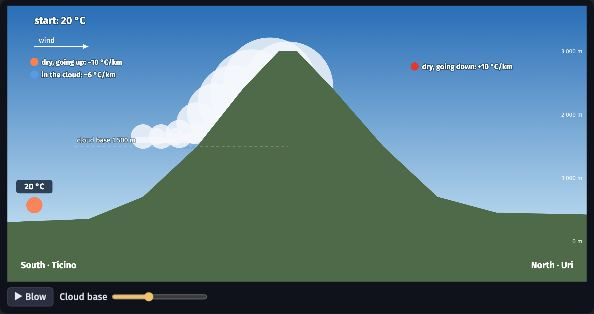
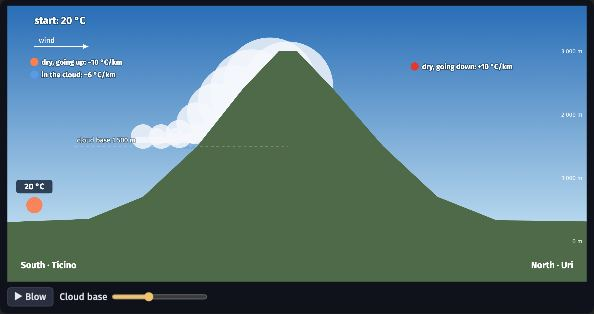
GeoResources f81f9cf (fixes to dtm-steps, foehn, alliances, rank-size, border-walls; full catalog)
- page texts follow: dtm-steps (▶ starts again from step 1), alliances (Armenia hatched from 2024),
  border-walls (walls between today's states only); new thumbnails

Changed region(s): [[0.7879, 0.6592, 1.0, 0.7166], [0.7576, 0.6306, 0.7879, 0.6592]]

diff --git a/_extensions/geores/dist/geores.js b/_extensions/geores/dist/geores.js
@@ -7629,13 +7629,13 @@
       bwdTitle: (a, b, y) => `Border walls: ${a} in 1989, ${b} in ${y}`, bwdMap: y => `The walls standing in ${y}`, bwdChart: "walls standing each year",
       bwdMotives: { territory: "territory (dispute, demarcation)", security: "security (militants, terrorism)", migration: "migration and smuggling", other: "other" },
       bwdUnmapped: n => `${n} walls without a known route are counted, not drawn`,
-      bwdSource: "Kenwick, Pauselli & Simmons (2026), CC0; walls begun after 2020 added for this course",
+      bwdSource: "Kenwick, Pauselli & Simmons (2026), CC0: walls between today's states (no Berlin Wall or Iron Curtain); walls begun after 2020 added for this course",
     },
     fr: {
       bwdTitle: (a, b, y) => `Murs frontaliers : ${a} en 1989, ${b} en ${y}`, bwdMap: y => `Les murs debout en ${y}`, bwdChart: "murs debout chaque année",
       bwdMotives: { territory: "territoire (conflit, démarcation)", security: "sécurité (militants, terrorisme)", migration: "migrations et contrebande", other: "autre" },
       bwdUnmapped: n => `${n} murs sans tracé connu sont comptés, pas dessinés`,
-      bwdSource: "Kenwick, Pauselli & Simmons (2026), CC0 ; murs commencés après 2020 ajoutés pour ce cours",
+      bwdSource: "Kenwick, Pauselli & Simmons (2026), CC0 : murs entre États actuels (ni mur de Berlin ni rideau de fer) ; murs commencés après 2020 ajoutés pour ce cours",
     },
   });
 
@@ -15003,6 +15003,9 @@
 // Tissot's indicatrices (circles of the same size on the globe) to see what each projection keeps:
 // shapes (conformal), areas (equal-area) or a bit of both (compromise). The central meridian can
 // be moved. Follows the page's light/dark theme.
+//   <div class="geores" data-sim="projection-explorer" data-set="rectangular" data-projection="mercator"></div>
+//   data-set: rectangular (the first four) or nonrectangular (the four others), default all eight; data-projection:
+//   the projection shown first (platecarree, mercator, gallpeters, hobodyer, goode, robinson, winkel, equalearth)
 (function (G) {
   const R_ = G.GeoRes, pg = R_.page, { svgDoc } = R_.lib;
 
@@ -16860,6 +16863,8 @@
 // emits waves; the observer it moves away from receives longer waves, the other one shorter.
 // Sound: a siren (lower / higher pitch). Light: a galaxy, with its spectrum and the hydrogen
 // lines shifted towards the red. Speeds are fractions of the speed of the waves (not to scale).
+//   <div class="geores" data-sim="redshift" data-mode="sound"></div>
+//   data-mode: light (default: a galaxy and its spectrum) or sound (a siren)
 (function (G) {
   const R_ = G.GeoRes, pg = R_.page;
 
@@ -17287,13 +17292,13 @@
   R_.addStrings({
     en: {
       dtmIntro: "The <b>birth rate</b> (CBR) and the <b>death rate</b> (CDR): the area between them is the <b>natural increase</b> (RNI), the blue line the <b>population</b>.",
-      dtmStageText: "<b>Stage {i}</b>: birth rate {cbr}, death rate {cdr}, population: <b>{pop}</b>.",
-      dtmStep: "Step {i} of {n}", dtmAll: "Whole model", prev: "Previous step", next: "Next step",
+      dtmStageText: "<b>Stage {i}</b>: birth rate {cbr}, death rate {cdr}, natural increase: <b>{pop}</b>.",
+      dtmStep: "Step {i} of {n}", dtmAll: "Whole model", prev: "Previous step", next: "Next step", dtmRestart: "From the first step",
     },
     fr: {
       dtmIntro: "Le <b>taux de natalité</b> et le <b>taux de mortalité</b> : la surface entre les deux est l'<b>accroissement naturel</b>, la ligne bleue la <b>population</b>.",
-      dtmStageText: "<b>Phase {i}</b> : natalité {cbr}, mortalité {cdr}, population : <b>{pop}</b>.",
-      dtmStep: "Étape {i} sur {n}", dtmAll: "Modèle complet", prev: "Étape précédente", next: "Étape suivante",
+      dtmStageText: "<b>Phase {i}</b> : natalité {cbr}, mortalité {cdr}, accroissement naturel : <b>{pop}</b>.",
+      dtmStep: "Étape {i} sur {n}", dtmAll: "Modèle complet", prev: "Étape précédente", next: "Étape suivante", dtmRestart: "Depuis la première étape",
     },
   });
 
@@ -17367,11 +17372,15 @@
       caption.innerHTML = k === 1 || !one ? tr("dtmIntro") : tr("dtmStageText").replace("{i}", k - 1)
         .replace("{cbr}", stages[k - 2][0]).replace("{cdr}", stages[k - 2][1]).replace("{pop}", stages[k - 2][2]);
       panel.querySelector(".prev").disabled = k <= 1;
-      panel.querySelector(".next").disabled = k >= n;
+      // on the whole model, ▶ starts again from the first step
+      panel.querySelector(".next").setAttribute("aria-label", tr(k >= n ? "dtmRestart" : "next"));
     }
 
     panel.querySelector(".prev").addEventListener("click", () => { k = Math.max(1, k - 1); show(true); });
-    panel.querySelector(".next").addEventListener("click", () => { k = Math.min(n, k + 1); show(true, k - 2); });
+    panel.querySelector(".next").addEventListener("click", () => {
+      if (k >= n) { k = 1; show(true); return; }
+      k += 1; show(true, k - 2);
+    });
     panel.querySelector(".all").addEventListener("click", () => { k = n; show(true); });
     draw();
     pg.onThemeChange(draw);
@@ -18424,6 +18433,8 @@
 // map: the coasts reconstructed every 10 million years (Müller et al. 2022, GPlates; dist/paleo.js), with
 // a time slider and a play button, the geological period and what happened then. Between two maps, the
 // sim fades from one to the next.
+//   <div class="geores" data-sim="continents-drift" data-age="200"></div>
+//   data-age: the map shown first, in millions of years ago (0 to 250, every 10; default 250)
 (function (G) {
   const R_ = G.GeoRes, { clamp } = R_.lib;
 
@@ -20508,6 +20519,9 @@
 // boundary (and how fast the plates move there), the earthquake or the volcano under the pointer.
 // layers="bounds,quakes,volcanoes,age": the layers shown at first; lon0: the central meridian (10 or 150).
 // Data: dist/tectonics.js (tools/geology-data.R).
+//   <div class="geores" data-sim="plate-map" data-layers="bounds,quakes" data-lon0="150"></div>
+//   data-layers: the layers shown at first, comma-separated among bounds (default), quakes, volcanoes, age;
+//   data-lon0: the central meridian, 10 (default) or 150
 (function (G) {
   const R_ = G.GeoRes, { clamp } = R_.lib;
 
@@ -21461,6 +21475,8 @@
 // seen from above) and Rayleigh (rolling, like ocean waves). All waves leave the earthquake together:
 // the P wave arrives first. waves="PS" shows the body waves only, with a switch to fill the block with
 // water: the P wave crosses it (slower), the S wave does not exist in a liquid.
+//   <div class="geores" data-sim="seismic-waves" data-waves="PS"></div>
+//   data-waves: the waves shown, among P, S, L (Love) and R (Rayleigh), default PSLR; PS adds the water switch
 (function (G) {
   const R_ = G.GeoRes, { clamp } = R_.lib;
 
@@ -22034,7 +22050,10 @@
       ctx.fillStyle = SEA; ctx.fillRect(MAP.x, MAP.y, MAP.w, MAP.h);
       countries.forEach(({ c, path }) => {
         const ks = BLOCS.filter(k => on.has(k) && member(k, c.id, year));
+        // Armenia froze its CSTO membership in 2024: hatched, as on the static map
+        const frozen = c.id === "ARM" && year >= 2024 && ks.length === 1 && ks[0] === "csto";
         if (!ks.length) ctx.fillStyle = LAND;
+        else if (frozen) ctx.fillStyle = patterns.armFrozen || (patterns.armFrozen = stripes(LAND, COL.csto));
         else if (ks.length === 1) ctx.fillStyle = COL[ks[0]];
         else { const key = ks.slice(0, 2).join(); ctx.fillStyle = patterns[key] || (patterns[key] = stripes(COL[ks[0]], COL[ks[1]])); }
         ctx.fill(path, "evenodd");
@@ -22236,7 +22255,7 @@
       bwMotive: m => `motive: ${m}`, bwAdded: "added for this course (after the dataset), approximate route",
       bwHint: "Move over a wall.", bwUnmapped: n => `${n} walls without a known route are counted, not drawn`,
       bwEvents: { 1989: "fall of the Berlin Wall", 2001: "11 September", 2015: "refugees in Europe", 2022: "war in Ukraine" },
-      bwSource: "Kenwick, Pauselli & Simmons (2026), CC0; walls begun after 2020 added",
+      bwSource: "Kenwick, Pauselli & Simmons (2026), CC0: walls between today's states (no Berlin Wall or Iron Curtain); walls begun after 2020 added",
     },
     fr: {
       bwTitle: "Les murs aux frontières du monde", bwStanding: n => `${n} murs debout`, bwPlay: "Lecture", bwPause: "Pause", bwYear: "Année", bwRegion: "Région",
@@ -22246,7 +22265,7 @@
       bwMotive: m => `motif : ${m}`, bwAdded: "ajouté pour ce cours (après les données), tracé approximatif",
       bwHint: "Passez sur un mur.", bwUnmapped: n => `${n} murs sans tracé connu sont comptés, pas dessinés`,
       bwEvents: { 1989: "chute du mur de Berlin", 2001: "11 septembre", 2015: "réfugiés en Europe", 2022: "guerre en Ukraine" },
-      bwSource: "Kenwick, Pauselli & Simmons (2026), CC0 ; murs commencés après 2020 ajoutés",
+      bwSource: "Kenwick, Pauselli & Simmons (2026), CC0 : murs entre États actuels (ni mur de Berlin ni rideau de fer) ; murs commencés après 2020 ajoutés",
     },
   });
 
@@ -24404,9 +24423,12 @@
     const GY = 520, K = 0.14, Y = h => GY - h * K;
     const START = 400, CREST = 3000, T0 = 20;
     // terrain: [x, altitude]
-    const TER = [[0, 300], [180, 350], [300, 700], [420, 1500], [520, 2400], [600, 3000], [640, 3000], [720, 2400], [830, 1500], [950, 700], [1080, 450], [1280, 420]];
-    const alt = x => { for (let i = 1; i < TER.length; i++) if (x <= TER[i][0]) { const [x0, a0] = TER[i - 1], [x1, a1] = TER[i]; return a0 + (a1 - a0) * (x - x0) / (x1 - x0); } return 420; };
+    // (the valley on the north side as low as the start, so that the air arrives at the altitude it left: without a
+    // cloud, it comes back to the temperature it started with)
+    const TER = [[0, 300], [180, 350], [300, 700], [420, 1500], [520, 2400], [600, 3000], [640, 3000], [720, 2400], [830, 1500], [950, 700], [1080, 330], [1280, 310]];
+    const alt = x => { for (let i = 1; i < TER.length; i++) if (x <= TER[i][0]) { const [x0, a0] = TER[i - 1], [x1, a1] = TER[i]; return a0 + (a1 - a0) * (x - x0) / (x1 - x0); } return 310; };
     const pathAlt = x => Math.max(alt(x) + 150, x < 160 ? START : 0);
+    const TOP = CREST + 150;   // the highest point of the way: a cloud forms if its base is lower
     let lcl = 1500, x = 60, playing = false;
     const sl = panel.querySelector("input");
     sl.addEventListener("input", () => { lcl = +sl.value; x = 60; playing = false; });
@@ -24427,8 +24449,8 @@
       ctx.clearRect(0, 0, W, H);
       X.sky(ctx, 0, 0, W, GY + 40, "#2a6fb8", "#cfeaf8");
       // cloud and rain on the windward side, above the cloud base
-      const cb = Math.min(lcl, CREST);
-      if (lcl < CREST) {
+      const cb = Math.min(lcl, CREST), cloudy = lcl < TOP;
+      if (cloudy) {
         for (let q = 280; q <= 640; q += 26) {
           const h = alt(q);
           if (h + 150 > cb) {
@@ -24448,8 +24470,10 @@
       // altitude scale
       for (let h = 0; h <= 3000; h += 1000) text(X.metres(h), W - 10, Y(h) + 5, { size: 13, color: "rgba(255,255,255,0.8)", align: "right" });
       ctx.setLineDash([6, 6]); ctx.strokeStyle = "rgba(255,255,255,0.7)"; ctx.lineWidth = 1.5;
-      ctx.beginPath(); ctx.moveTo(150, Y(lcl)); ctx.lineTo(620, Y(lcl)); ctx.stroke(); ctx.setLineDash([]);
-      if (lcl < CREST) text(tr("foBase").replace("{n}", X.metres(lcl)), 154, Y(lcl) - 8, { size: 15, color: "#fff", halo: "rgba(0,0,0,0.3)" });
+      // up by the wind and the key, the line and its label start right of the key (the label below the line)
+      const high = Y(lcl) < 170;
+      ctx.beginPath(); ctx.moveTo(high ? 290 : 150, Y(lcl)); ctx.lineTo(620, Y(lcl)); ctx.stroke(); ctx.setLineDash([]);
+      if (cloudy) text(tr("foBase").replace("{n}", X.metres(lcl)), high ? 300 : 154, high ? Y(lcl) + 22 : Y(lcl) - 8, { size: 15, color: "#fff", halo: "rgba(0,0,0,0.3)" });
       // the parcel
       const h = pathAlt(x), t = tempAt(x);
       // coral: rising dry (DALR), blue: rising in the cloud (SALR), red: coming down dry (DALR)
@@ -24462,8 +24486,10 @@
       text(tr("foStart").replace("{t}", degC(T0)), 60, 40, { size: 22, weight: 700, color: "#fff", halo: "rgba(0,0,0,0.3)" });
       if (x >= 1240) {
         const diff = tEnd - T0;
-        text(tr("foArrival").replace("{t}", degC(tEnd)), W - 30, 40, { size: 22, weight: 700, color: diff > 0.5 ? "#ffd2c4" : "#fff", align: "right", halo: "rgba(0,0,0,0.3)" });
-        text(diff > 0.5 ? tr("foWarmer").replace("{n}", Math.round(diff)) : tr("foNone"), W - 30, 72, { size: 20, weight: 600, color: "#fff", align: "right", halo: "rgba(0,0,0,0.3)" });
+        // a thin cloud over the crest warms the air by less than a degree: one decimal then
+        const warm = R_.num(R_.lang(opts.lang), diff, diff < 0.95 ? 1 : 0);
+        text(tr("foArrival").replace("{t}", degC(tEnd)), W - 84, 40, { size: 22, weight: 700, color: cloudy ? "#ffd2c4" : "#fff", align: "right", halo: "rgba(0,0,0,0.3)" });
+        text(cloudy ? tr("foWarmer").replace("{n}", warm) : tr("foNone"), W - 84, 72, { size: 20, weight: 600, color: "#fff", align: "right", halo: "rgba(0,0,0,0.3)" });
       }
       const dot = (x, y, c, s) => {
         ctx.fillStyle = `rgb(${c})`; ctx.beginPath(); ctx.arc(x, y - 6, 9, 0, 2 * Math.PI); ctx.fill();
@@ -27398,8 +27424,8 @@
 // ---- src/sims/urban/rank-size.js ----
 // Sim "rank-size": the cities of a country ranked by population (UN DESA, World Urbanization Prospects 2025, cities by
 // the Degree of Urbanisation: 50 000 people or more at 1 500 per km²), on logarithmic axes, against the rank-size rule
-// (Zipf: the city of rank r has 1/r of the largest). A "primate city" (Paris, London, Lagos) stands far above the line;
-// a flat hierarchy (Switzerland, Germany, Italy) has its largest city below it. On the right, the five largest.
+// (Zipf: the city of rank r has 1/r of the largest). A "primate city" (Paris, London, Tokyo) stands far above the line;
+// a flat hierarchy (Switzerland, Germany, Italy, India, Nigeria) has its largest city below it. On the right, the five largest.
 //   <div class="geores" data-sim="rank-size" data-country="FRA"></div>
 // Data: dist/urban.js (urbanNet.ranks, tools/network-data.R).
 (function (G) {
